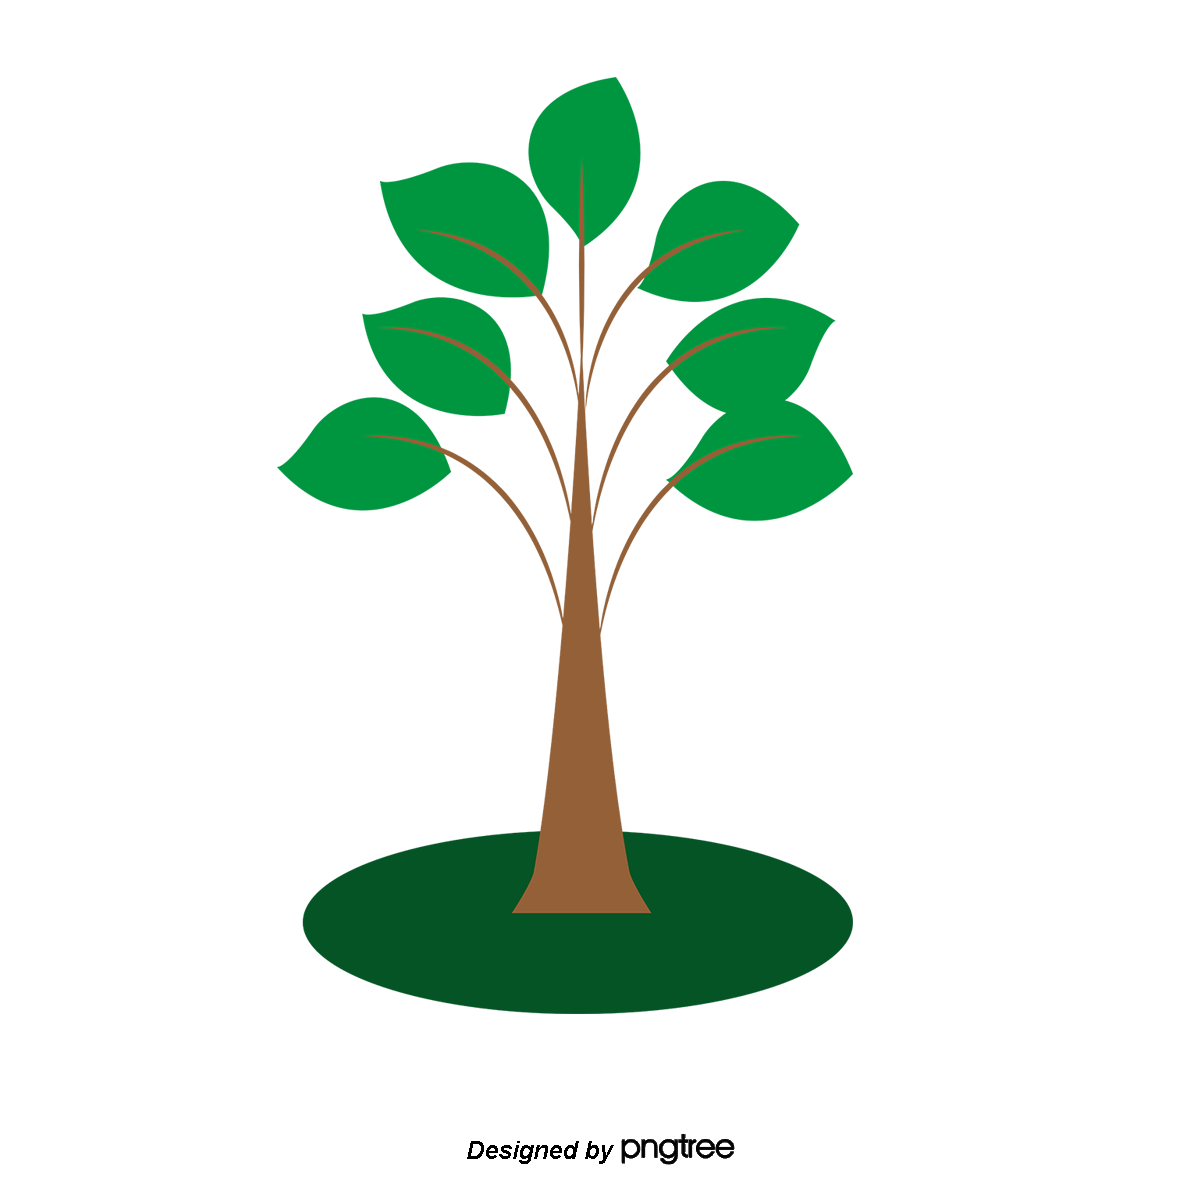
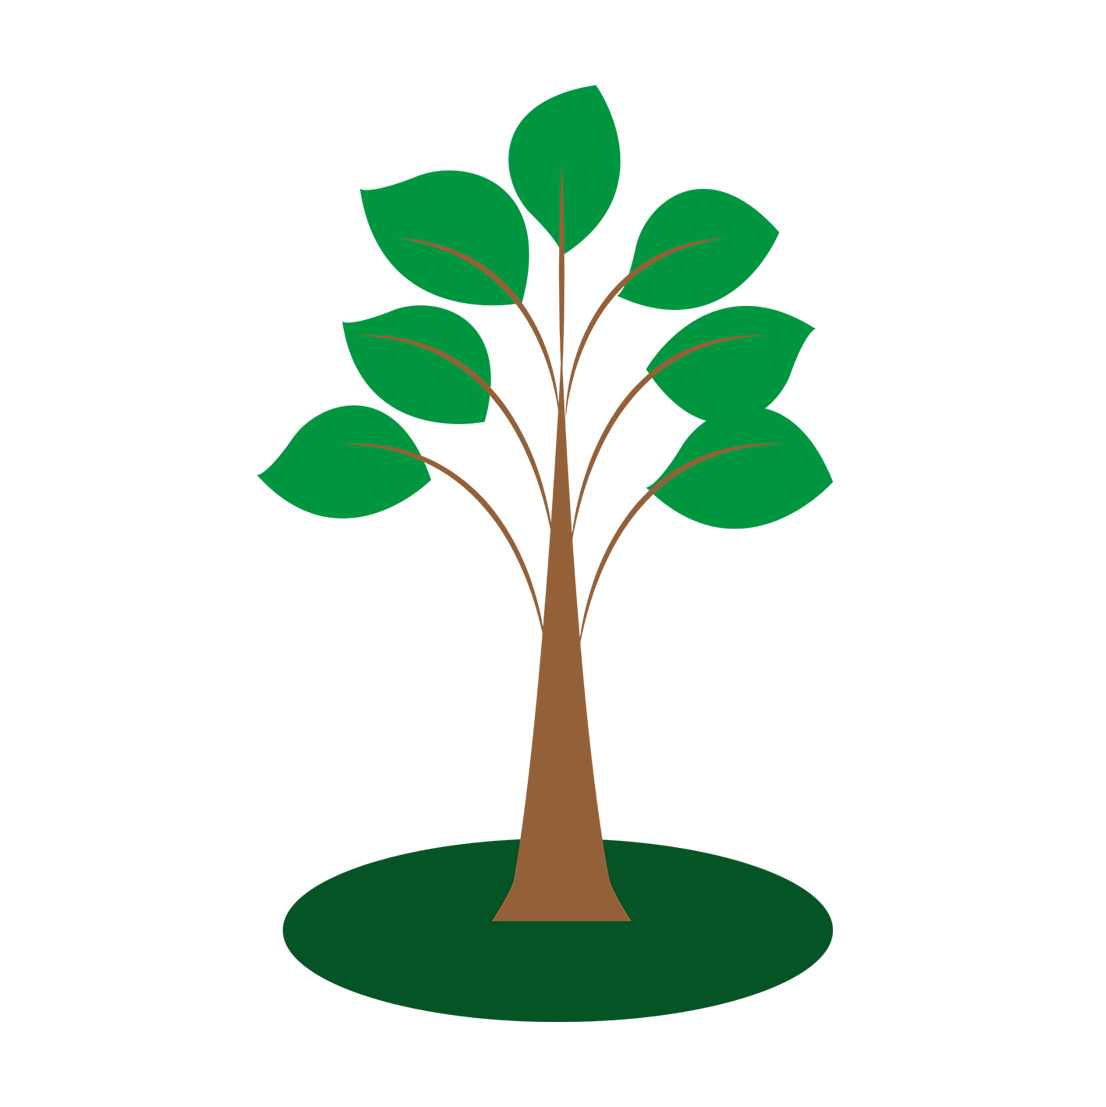
add trees pictures

Changed region(s): [[0.2152, 0.0614, 0.7685, 0.9828], [0.5533, 0.4607, 0.5841, 0.4914]]

diff --git a/app/helpers/my_tree_helper.rb b/app/helpers/my_tree_helper.rb
@@ -1,11 +1,20 @@
 module MyTreeHelper
   def order_count(order_count)    
-    if order_count <= 6
+    case order_count 
+    when order_count == 0
+      image_tag "trees/bud1.png"
+    when 1..5
+      image_tag "trees/bud2.png"
+    when 6..10
       image_tag "trees/tree1.png"
-    elsif order_count > 6 && order_count <= 30
+    when 11..15
       image_tag "trees/tree2.png"
-    else order_count >30
+    when 16..20
       image_tag "trees/tree3.png"
-    end 
+    when 21..25
+      image_tag "trees/tree4.png"
+    else  
+      image_tag "trees/tree5.png"
+    end
   end
 end
